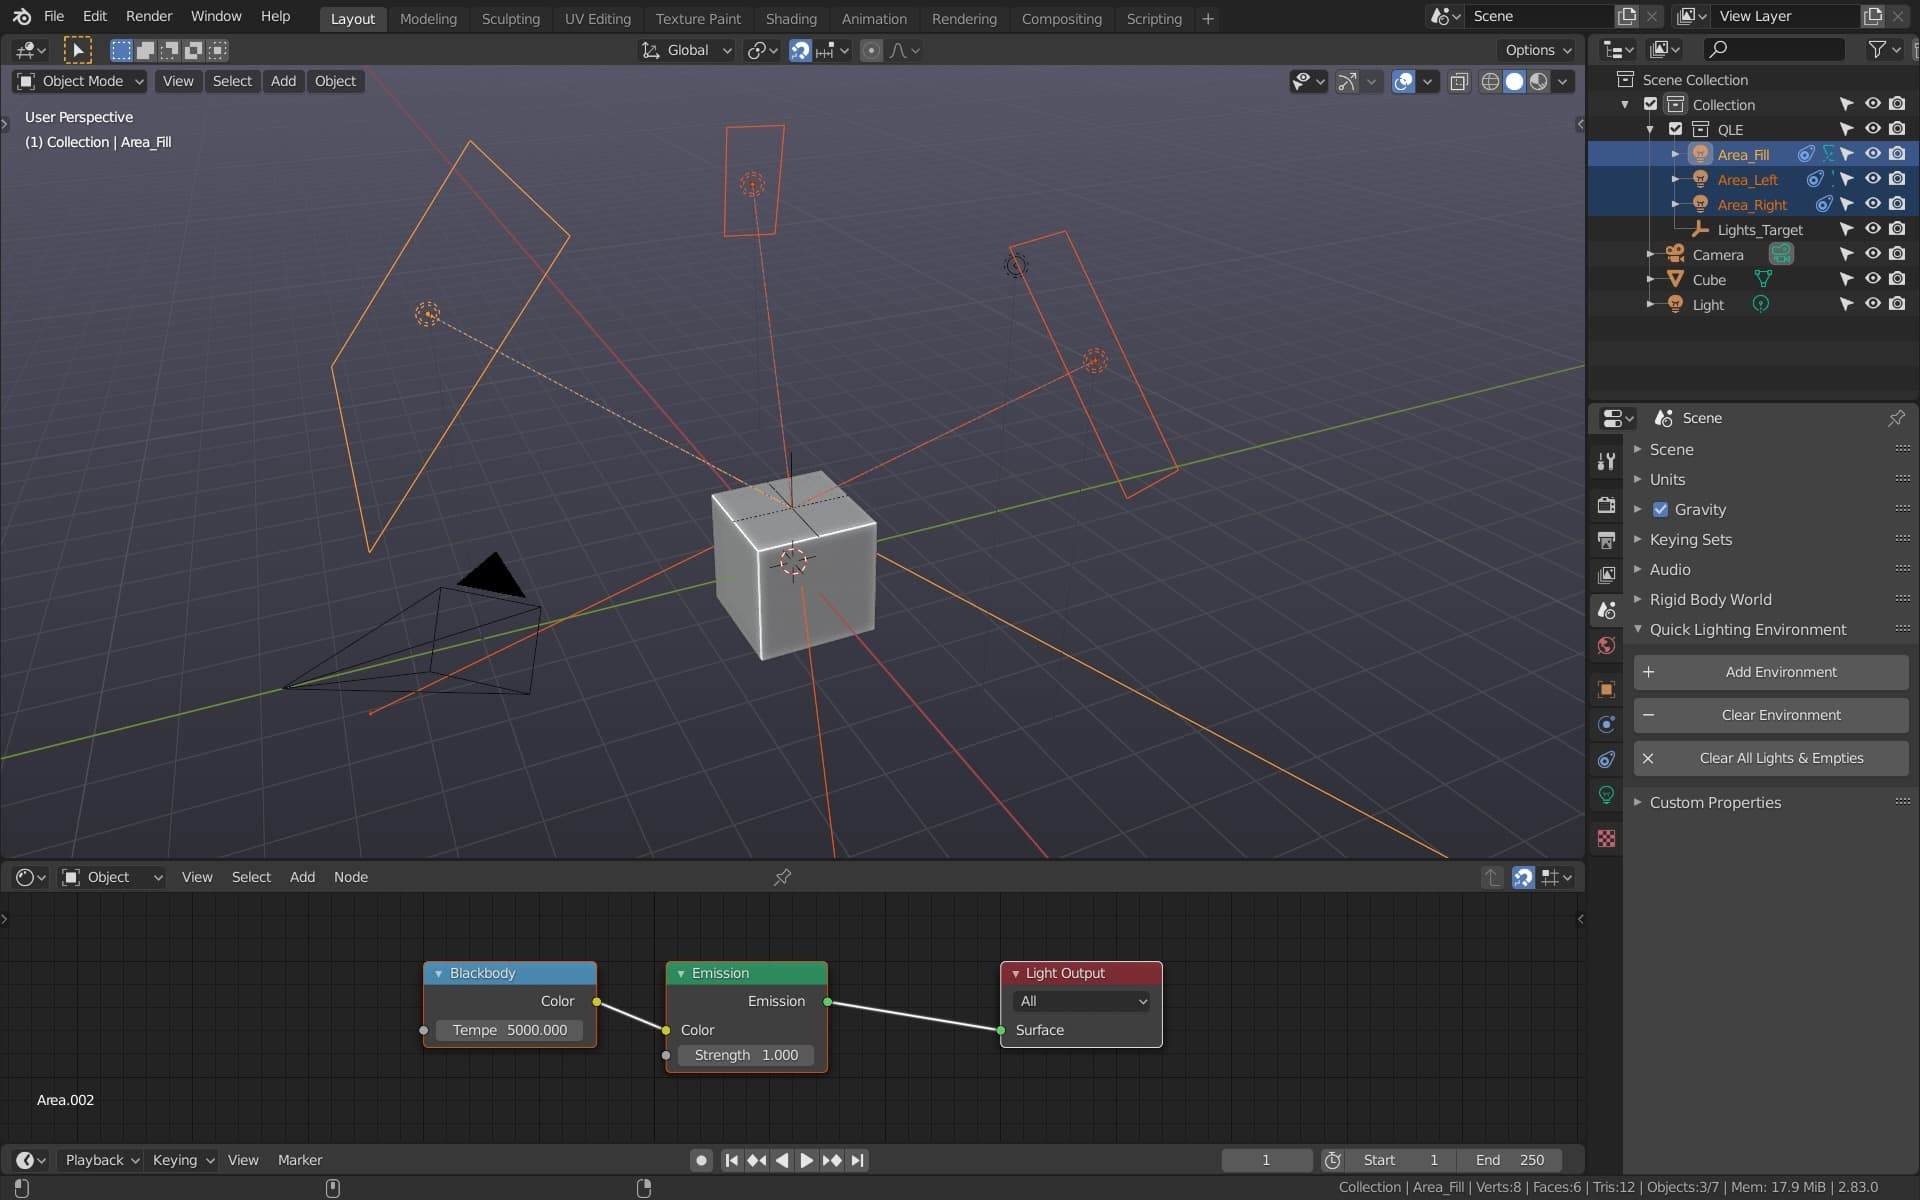
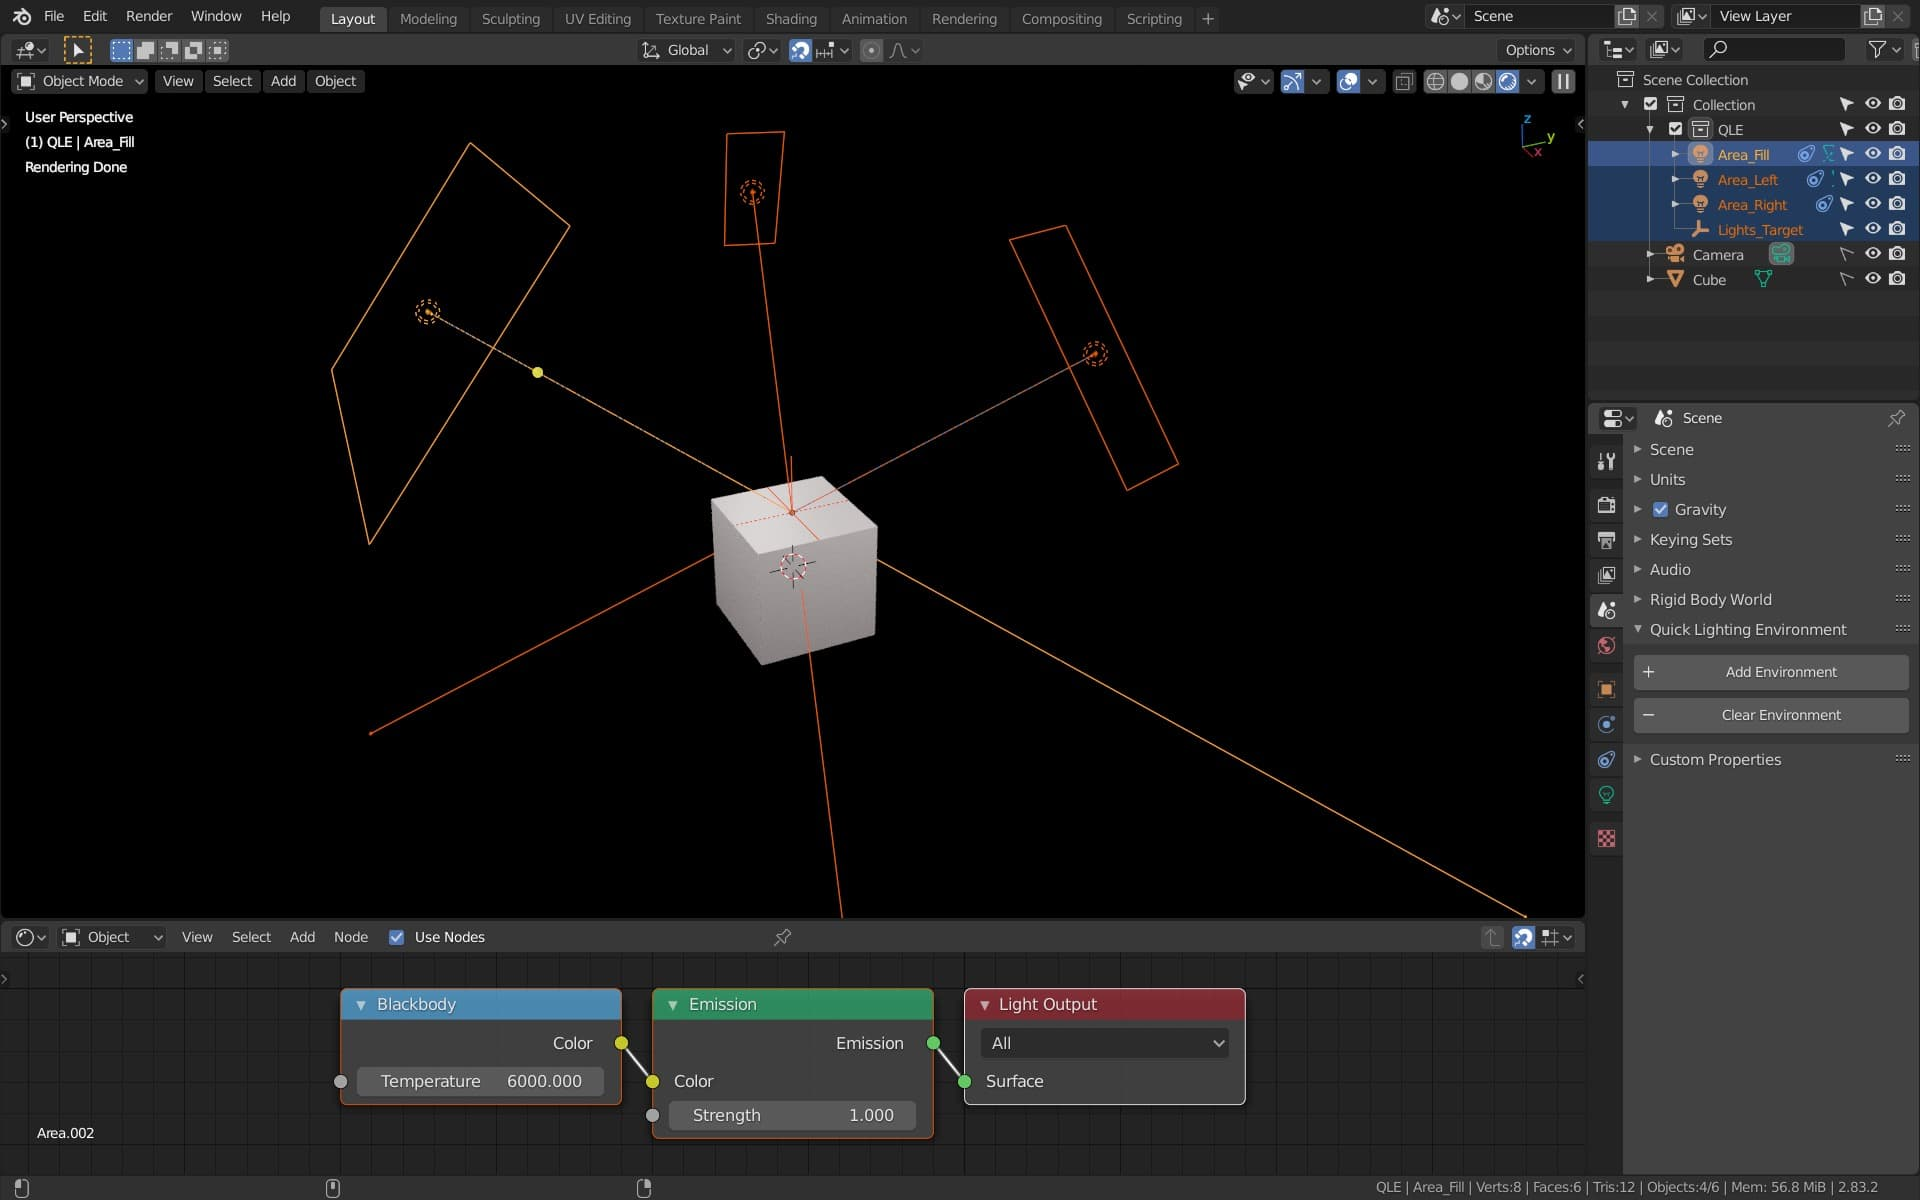
Version 1.5

diff --git a/quick_environment.py b/quick_environment.py
@@ -1,7 +1,7 @@
 bl_info = {
     "name": "QLE (Quick Lighting Environment)",
     "author": "Don Schnitzius",
-    "version": (1, 4, 1),
+    "version": (1, 5, 0),
     "blender": (2, 80, 0),
     "location": "Scene",
     "description": "Adds Three Area Lights and Sets World Surface to Black",
@@ -12,6 +12,11 @@ bl_info = {
 
 """
 VERSION HISTORY
+
+1.5 – 20/07/19
+    – Code cleanup
+    – Arrange light nodes
+    – Set light Blackbody to 6000
 
 1.4 – 20/06/29
     – Error handling for:
@@ -64,6 +69,7 @@ def btn_01(context):
         bpy.data.objects["Lights_Target"]
     except:
         bpy.ops.object.empty_add(type='PLAIN_AXES', location=(0, 0, 1))
+        area_target = bpy.context.active_object
         bpy.context.active_object.name = "Lights_Target"
 
 
@@ -72,25 +78,32 @@ def btn_01(context):
         bpy.data.objects["Area_Right"]
     except:
         bpy.ops.object.light_add(type='AREA', radius=10, location=(5, 1.5, 5))
-        bpy.context.active_object.data.use_nodes = True
-        bpy.context.active_object.name = "Area_Right"
-        bpy.context.active_object.data.shape = 'RECTANGLE'
-        bpy.context.active_object.data.energy = 300
-        bpy.context.active_object.data.size = 1
-        bpy.context.active_object.data.size_y = 3
+        area_right = bpy.context.active_object
+        area_right.name = "Area_Right"
+        area_right.data.shape = 'RECTANGLE'
+        area_right.data.energy = 300
+        area_right.data.size = 1
+        area_right.data.size_y = 3
+        area_right.data.use_nodes = True
         bpy.ops.object.constraint_add(type='TRACK_TO')
-        bpy.context.active_object.constraints["Track To"].track_axis = 'TRACK_NEGATIVE_Z'
-        bpy.context.active_object.constraints["Track To"].up_axis = 'UP_Y'
-        bpy.context.active_object.constraints["Track To"].target = bpy.data.objects["Lights_Target"]
+        area_right.constraints["Track To"].track_axis = 'TRACK_NEGATIVE_Z'
+        area_right.constraints["Track To"].up_axis = 'UP_Y'
+        area_right.constraints["Track To"].target = bpy.data.objects["Lights_Target"]
 
 #    ADD BLACKBODY
         light   = bpy.context.active_object.data
         nodes   = light.node_tree.nodes
-        node_bb = nodes.new(type="ShaderNodeBlackbody")
-        node_bb.inputs[0].default_value = 5000
-        node_bb.location = -200,300
+        lights_output = nodes.get('Light Output')
+        lights_output.location = 0,0
+        lights_output.width = 180
         node_ox = nodes.get('Emission')
+        node_ox.location = -200,0
+        node_ox.width = 180
         links   = light.node_tree.links
+        node_bb = nodes.new(type="ShaderNodeBlackbody")
+        node_bb.inputs[0].default_value = 6000
+        node_bb.location = -400,0
+        node_bb.width = 180
         link    = links.new(node_bb.outputs[0], node_ox.inputs[0])
 
 
@@ -99,25 +112,32 @@ def btn_01(context):
         bpy.data.objects["Area_Left"]
     except:
         bpy.ops.object.light_add(type='AREA', radius=10, location=(-5, 1.5, 5))
-        bpy.context.active_object.data.use_nodes = True
-        bpy.context.active_object.name = "Area_Left"
-        bpy.context.active_object.data.shape = 'RECTANGLE'
-        bpy.context.active_object.data.energy = 300
-        bpy.context.active_object.data.size = 1
-        bpy.context.active_object.data.size_y = 3
+        area_left = bpy.context.active_object
+        area_left.name = "Area_Left"
+        area_left.data.shape = 'RECTANGLE'
+        area_left.data.energy = 300
+        area_left.data.size = 1
+        area_left.data.size_y = 3
+        area_left.data.use_nodes = True
         bpy.ops.object.constraint_add(type='TRACK_TO')
-        bpy.context.active_object.constraints["Track To"].track_axis = 'TRACK_NEGATIVE_Z'
-        bpy.context.active_object.constraints["Track To"].up_axis = 'UP_Y'
-        bpy.context.active_object.constraints["Track To"].target = bpy.data.objects["Lights_Target"]
+        area_left.constraints["Track To"].track_axis = 'TRACK_NEGATIVE_Z'
+        area_left.constraints["Track To"].up_axis = 'UP_Y'
+        area_left.constraints["Track To"].target = bpy.data.objects["Lights_Target"]
 
 #    ADD BLACKBODY
         light   = bpy.context.active_object.data
         nodes   = light.node_tree.nodes
-        node_bb = nodes.new(type="ShaderNodeBlackbody")
-        node_bb.inputs[0].default_value = 5000
-        node_bb.location = -200,300
+        lights_output = nodes.get('Light Output')
+        lights_output.location = 0,0
+        lights_output.width = 180
         node_ox = nodes.get('Emission')
+        node_ox.location = -200,0
+        node_ox.width = 180
         links   = light.node_tree.links
+        node_bb = nodes.new(type="ShaderNodeBlackbody")
+        node_bb.inputs[0].default_value = 6000
+        node_bb.location = -400,0
+        node_bb.width = 180
         link    = links.new(node_bb.outputs[0], node_ox.inputs[0])
 
 
@@ -126,38 +146,41 @@ def btn_01(context):
         bpy.data.objects["Area_Fill"]
     except:
         bpy.ops.object.light_add(type='AREA', radius=10, location=(0, -5, 5))
-        bpy.context.active_object.data.use_nodes = True
-        bpy.context.active_object.name = "Area_Fill"
-        bpy.context.active_object.data.shape = 'RECTANGLE'
-        bpy.context.active_object.data.energy = 300
-        bpy.context.active_object.data.size = 6
-        bpy.context.active_object.data.size_y = 4
+        area_fill = bpy.context.active_object
+        area_fill.name = "Area_Fill"
+        area_fill.data.shape = 'RECTANGLE'
+        area_fill.data.energy = 300
+        area_fill.data.size = 6
+        area_fill.data.size_y = 4
+        area_fill.data.use_nodes = True
         bpy.ops.object.constraint_add(type='TRACK_TO')
-        bpy.context.active_object.constraints["Track To"].track_axis = 'TRACK_NEGATIVE_Z'
-        bpy.context.active_object.constraints["Track To"].up_axis = 'UP_Y'
-        bpy.context.active_object.constraints["Track To"].target = bpy.data.objects["Lights_Target"]
+        area_fill.constraints["Track To"].track_axis = 'TRACK_NEGATIVE_Z'
+        area_fill.constraints["Track To"].up_axis = 'UP_Y'
+        area_fill.constraints["Track To"].target = bpy.data.objects["Lights_Target"]
 
 
 #    ADD BLACKBODY
         light   = bpy.context.active_object.data
         nodes   = light.node_tree.nodes
-        node_bb = nodes.new(type="ShaderNodeBlackbody")
-        node_bb.inputs[0].default_value = 5000
-        node_bb.location = -200,300
+        lights_output = nodes.get('Light Output')
+        lights_output.location = 0,0
+        lights_output.width = 180
         node_ox = nodes.get('Emission')
+        node_ox.location = -200,0
+        node_ox.width = 180
         links   = light.node_tree.links
+        node_bb = nodes.new(type="ShaderNodeBlackbody")
+        node_bb.inputs[0].default_value = 6000
+        node_bb.location = -400,0
+        node_bb.width = 180
         link    = links.new(node_bb.outputs[0], node_ox.inputs[0])
 
 
 #    SELECT QLE OBJECTS
-    light1 = bpy.data.objects["Area_Fill"]
-    qle_collection = find_collection(bpy.context, light1)
-    light2 = bpy.data.objects["Area_Left"]
-    qle_collection = find_collection(bpy.context, light2)
-    light3 = bpy.data.objects["Area_Right"]
-    qle_collection = find_collection(bpy.context, light3)
-    target1 = bpy.data.objects["Lights_Target"]
-    qle_collection = find_collection(bpy.context, target1)
+    qle_collection = find_collection(bpy.context, area_right)
+    qle_collection = find_collection(bpy.context, area_left)
+    qle_collection = find_collection(bpy.context, area_fill)
+    qle_collection = find_collection(bpy.context, area_target)
 
 
 #    CREATE NEW COLLECTION
@@ -166,26 +189,26 @@ def btn_01(context):
 
 #    MOVE TO NEW COLLECTION
     try:
-        new_qle_collection.objects.link(light1)
-        qle_collection.objects.unlink(light1)
+        new_qle_collection.objects.link(area_right)
+        qle_collection.objects.unlink(area_right)
     except RuntimeError:
         print(f"Area_Fill already in collection")
 
     try:
-        new_qle_collection.objects.link(light2)
-        qle_collection.objects.unlink(light2)
+        new_qle_collection.objects.link(area_left)
+        qle_collection.objects.unlink(area_left)
     except RuntimeError:
         print(f"Area_Left already in collection")
 
     try:
-        new_qle_collection.objects.link(light3)
-        qle_collection.objects.unlink(light3)
+        new_qle_collection.objects.link(area_fill)
+        qle_collection.objects.unlink(area_fill)
     except RuntimeError:
         print(f"Area_Right already in collection")
 
     try:
-        new_qle_collection.objects.link(target1)
-        qle_collection.objects.unlink(target1)
+        new_qle_collection.objects.link(area_target)
+        qle_collection.objects.unlink(area_target)
     except RuntimeError:
         print(f"Lights_Target already in collection")
 

diff --git a/README.md b/README.md
@@ -26,6 +26,8 @@ Click **Clear Environment** to delete QLE Lights and Empty from scene, and set t
 
 **1.4** – Error handling for clicking Add Environment multple times, or Clear Environment when there is no QLE in Scene. Removed **Clear All** button.
 
+**1.5** – Set Lights Blackbody to ``6000``, arrange Lights Nodes, and code cleanup.
+
 ## Version Path
 
-**1.5** – Fix: When a QLE object is manually deleted and then re-added, it doesn't link back into QLE Collection.
+**1.6** – Fix: When a QLE object is manually deleted and then re-added, it doesn't link back into QLE Collection.
